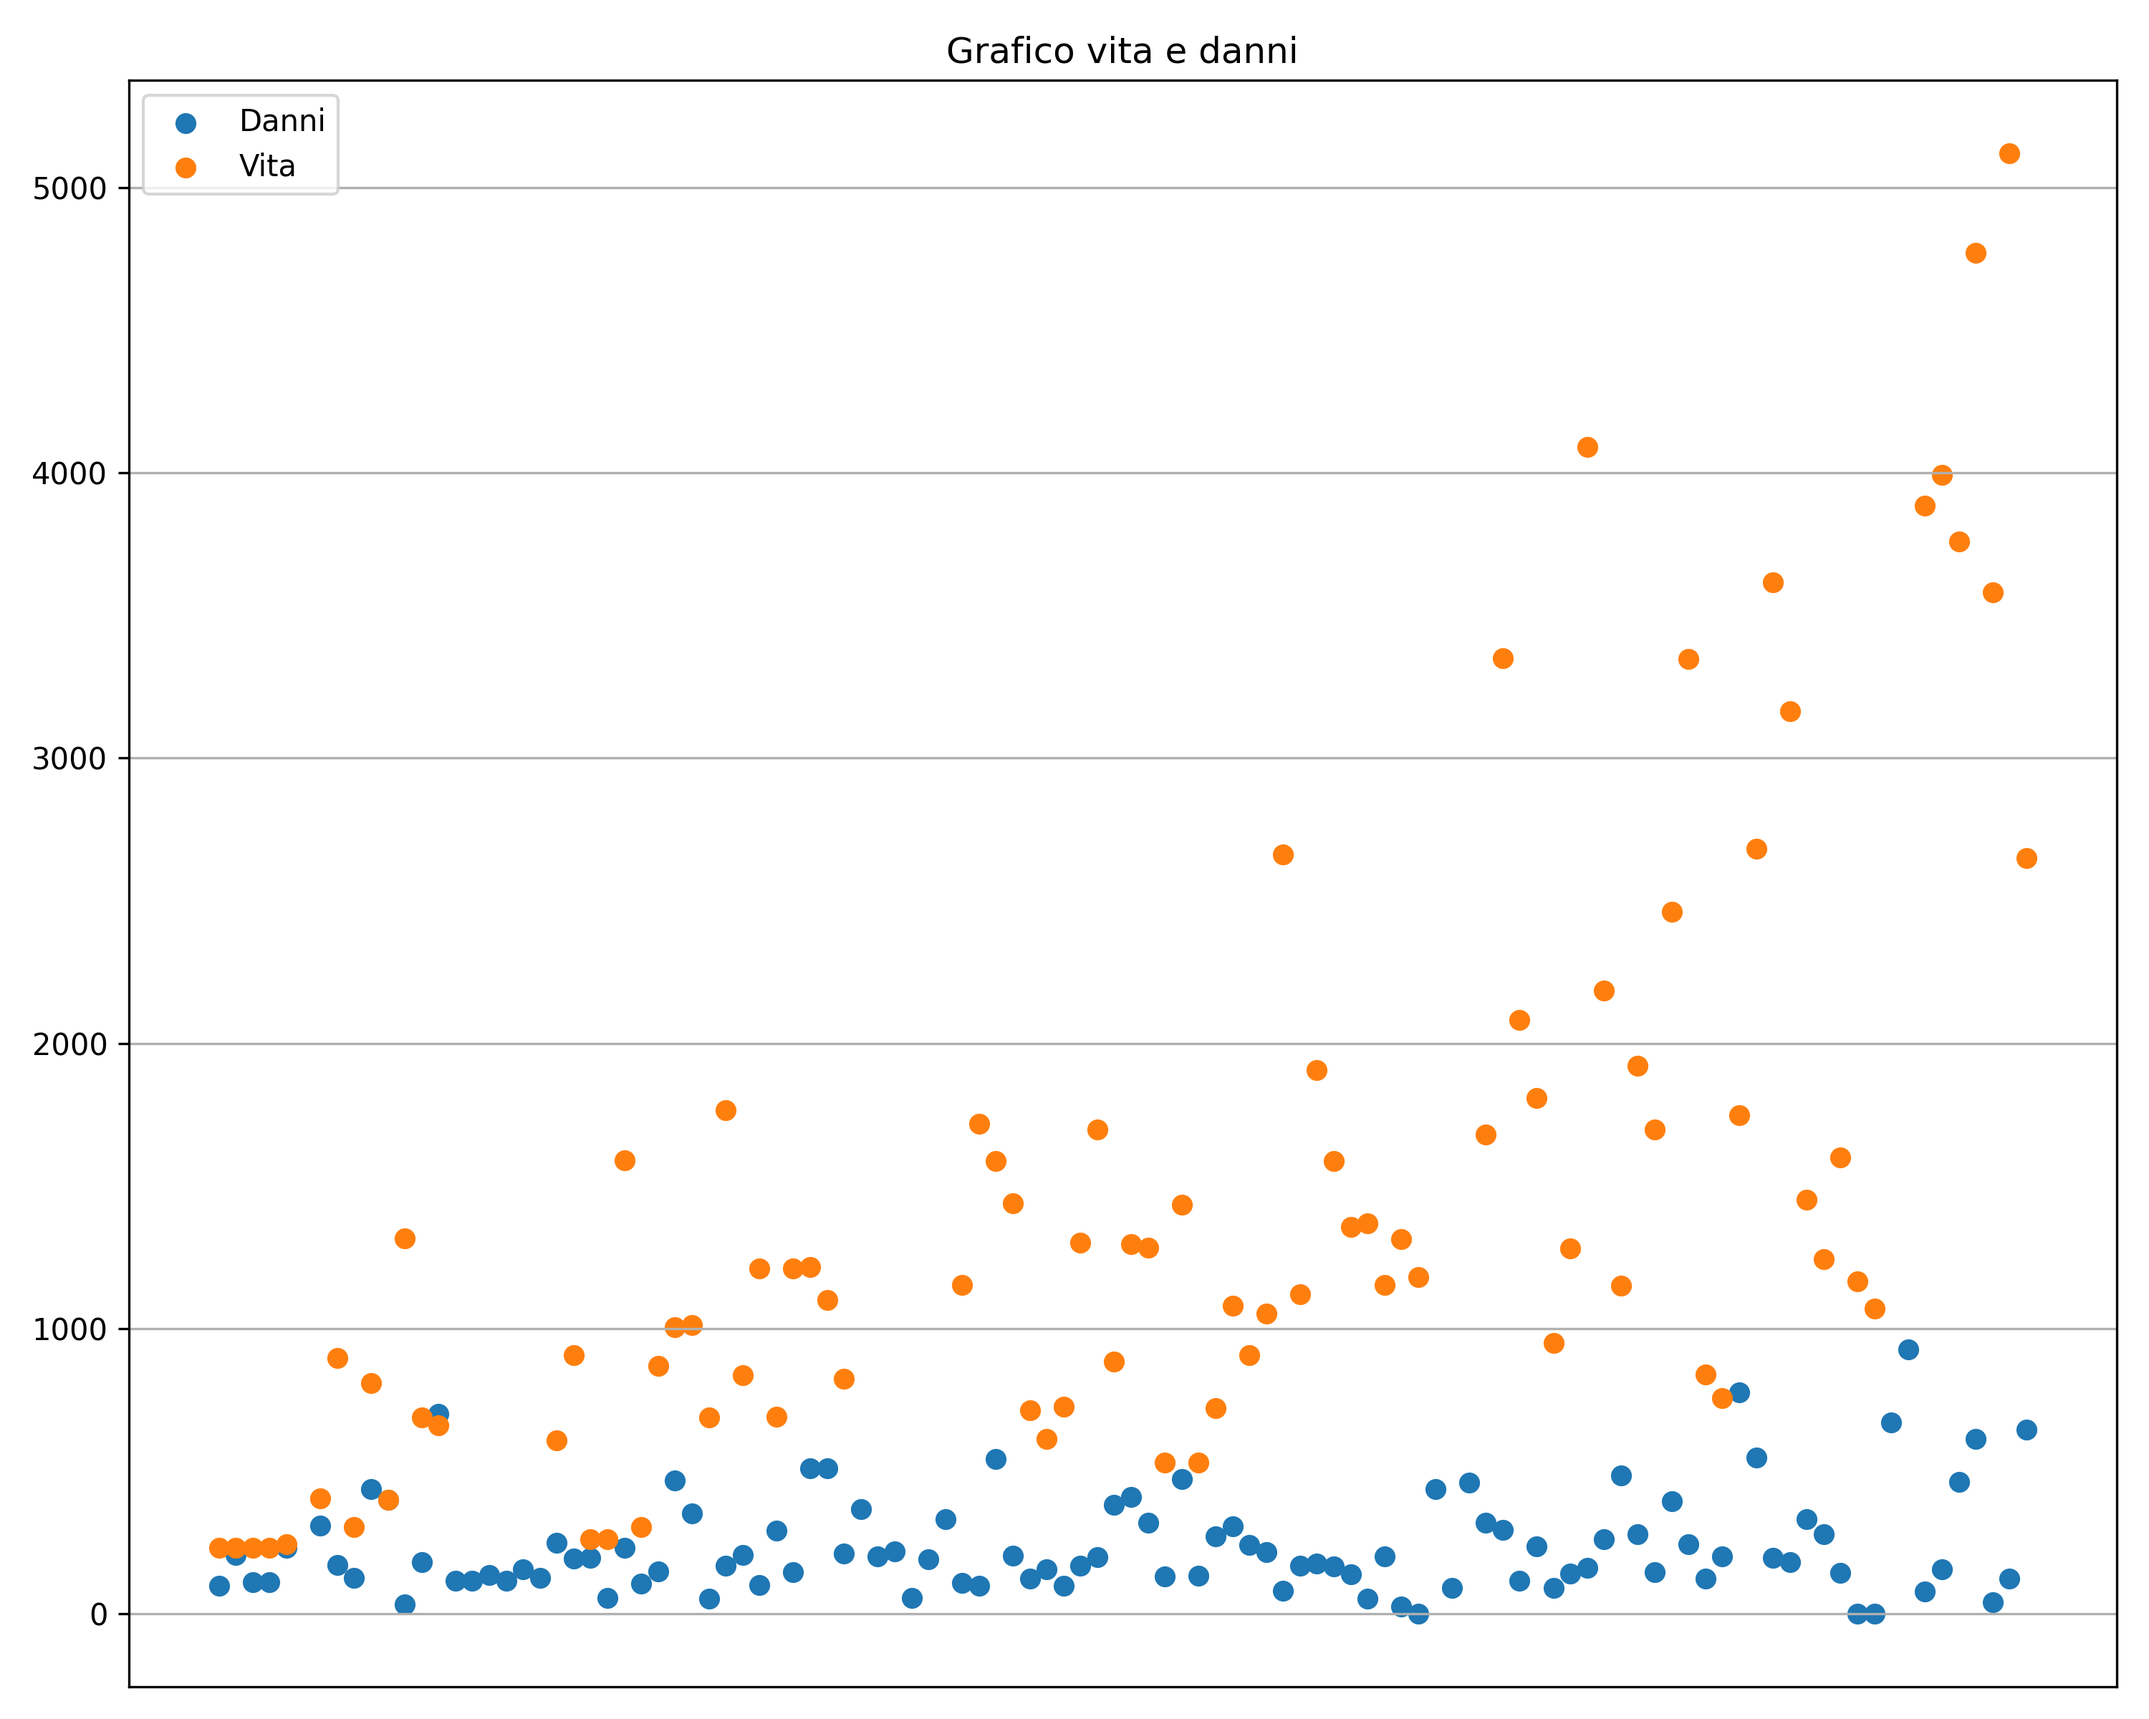
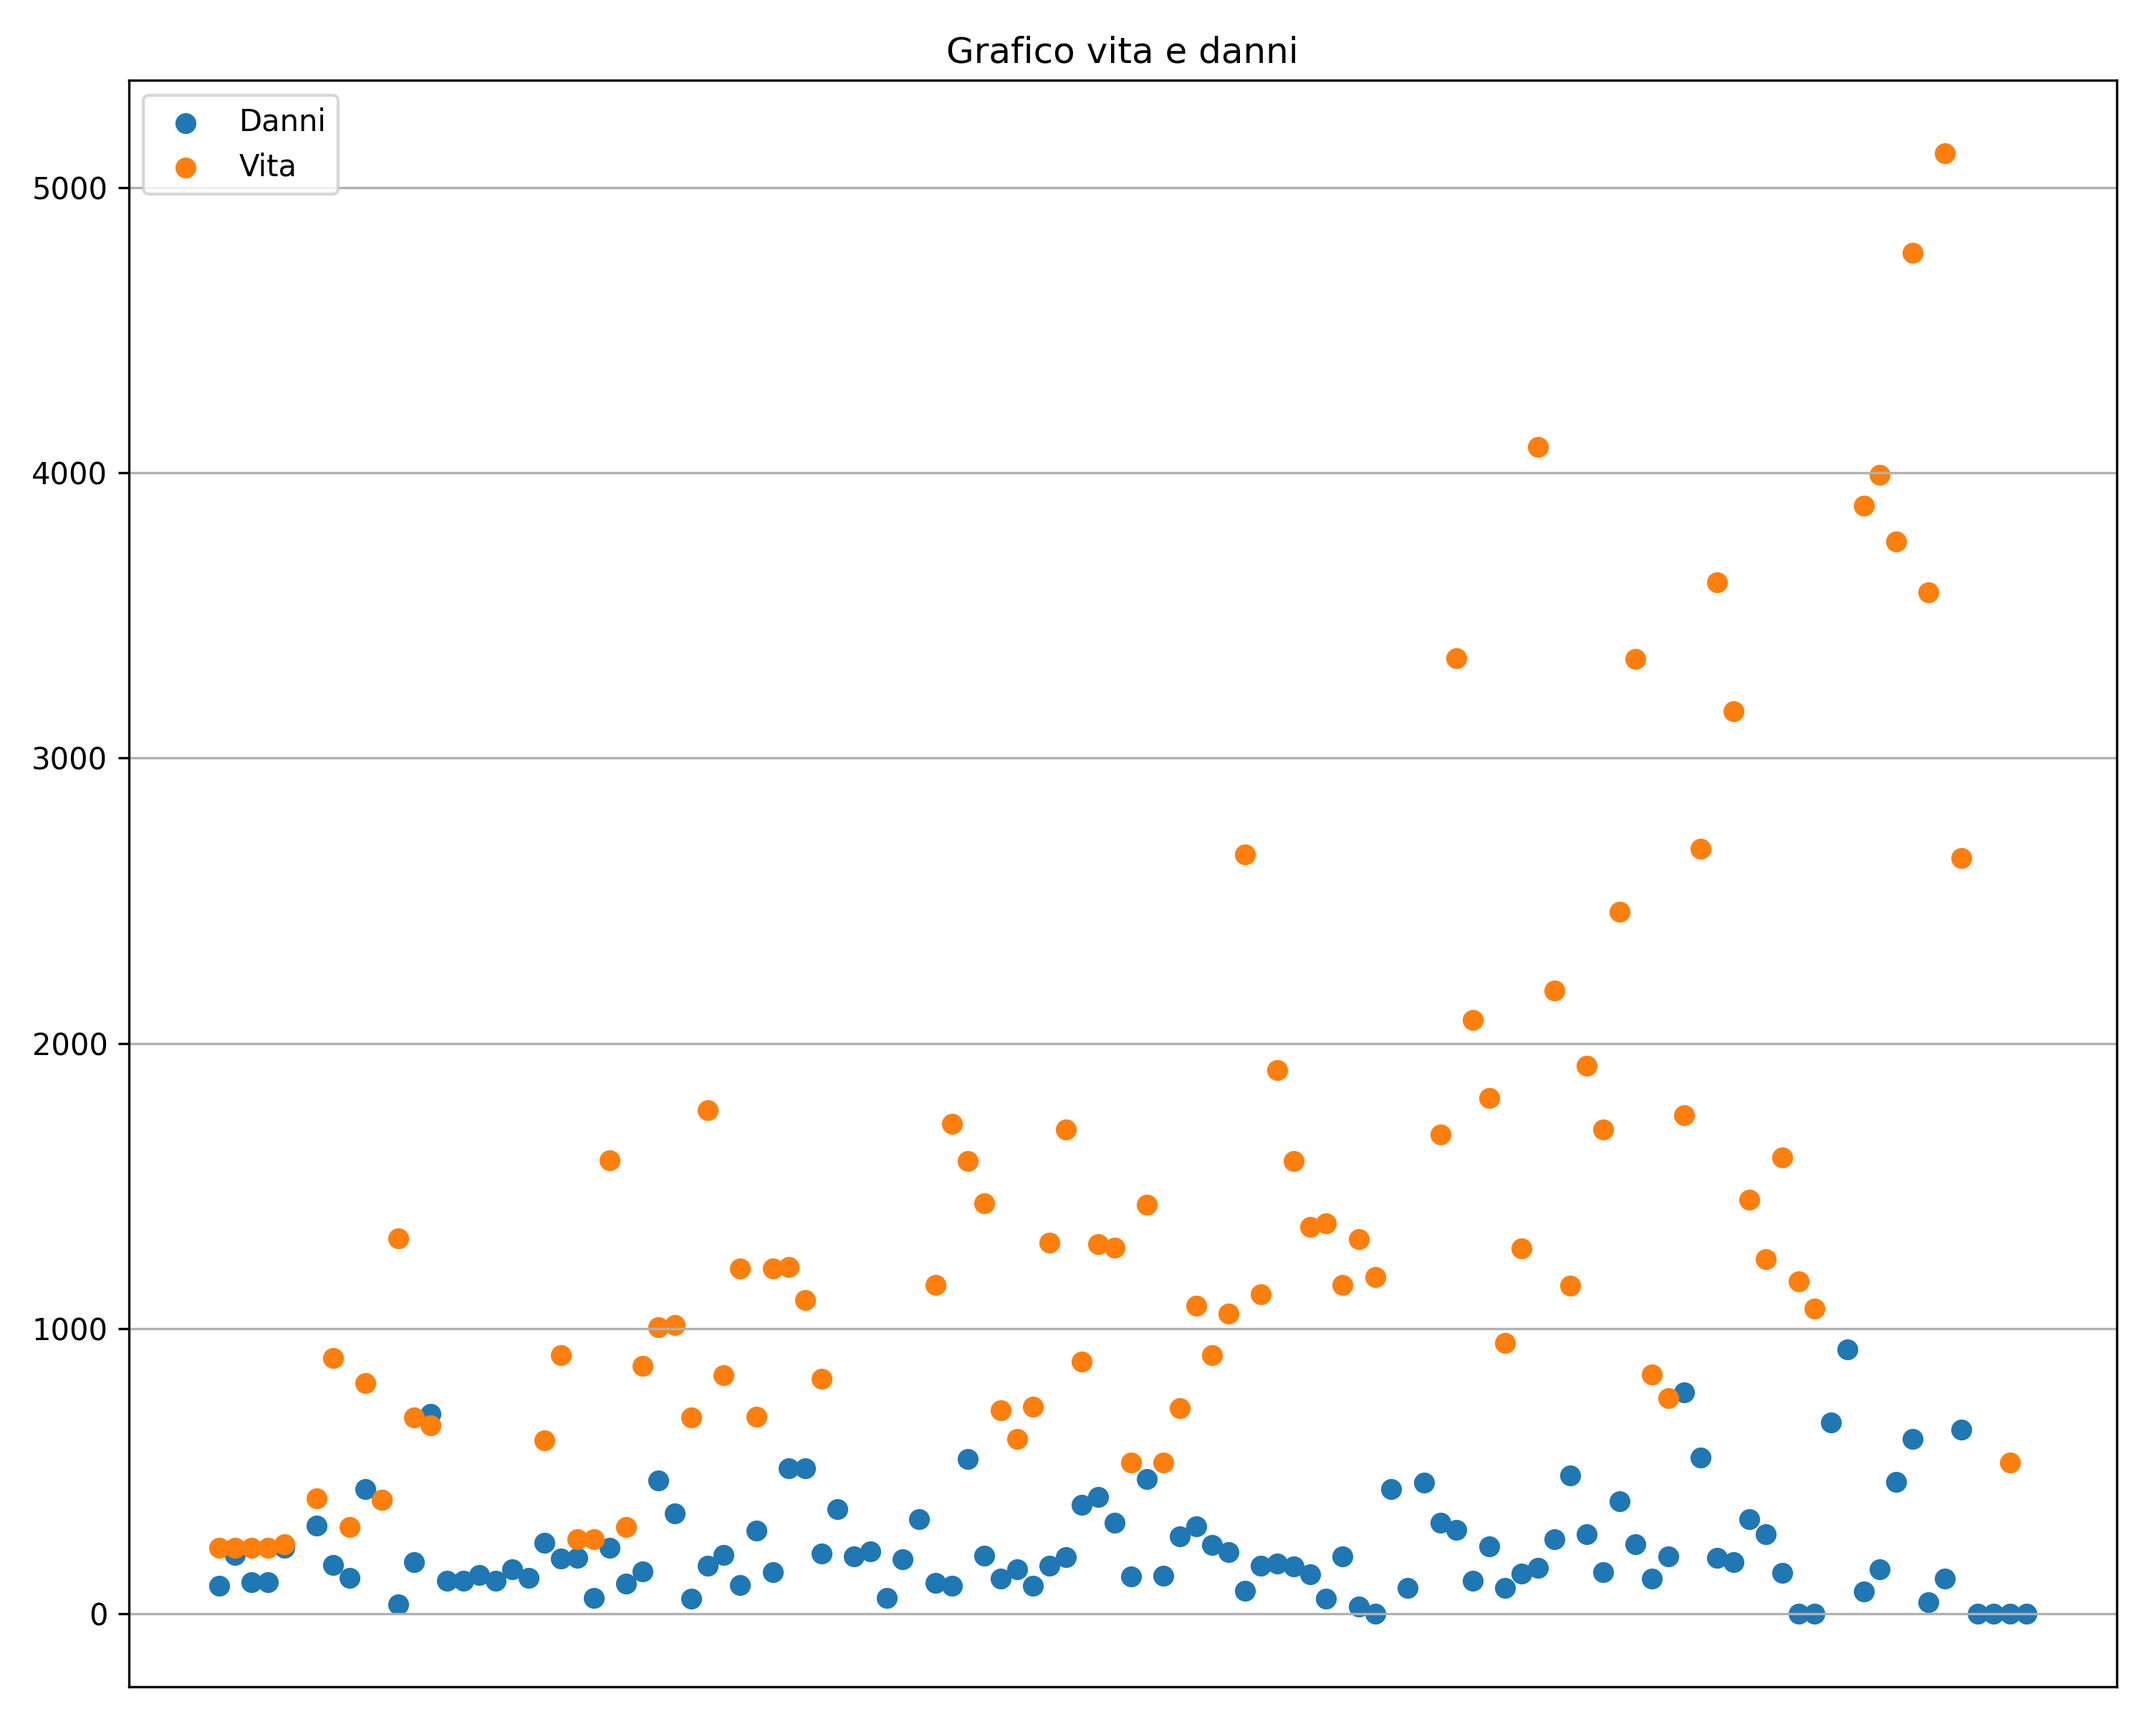
Aggiunta di carte mancanti al database

diff --git a/DeckBuilderCR/Dati/PopolaDB.py b/DeckBuilderCR/Dati/PopolaDB.py
@@ -26,12 +26,16 @@ class PopolaDatabase:
                 if velocita_valore == '':  # Se il campo esiste ma è vuoto
                     velocita_valore = '-1'
 
+                costo_valore = row.get('costo', '-1')  # Prende il valore, se manca usa '-1'
+                if costo_valore == '':  # Se il campo esiste ma è vuoto
+                    costo_valore = '-1'
+
                 # Crea un'istanza della carta con i dati letti
                 carta = Carta(
                     nome=row['nome'],
                     danno_s=int(danno_valore),
                     punti_vita=int(vita_valore),
-                    costo=int(row['costo']),
+                    costo=int(costo_valore),
                     volante=row['volante'] == 'True',  # Converti la stringa 'True' in un booleano
                     tipologia=row['tipologia'],
                     velocita=int(velocita_valore),
